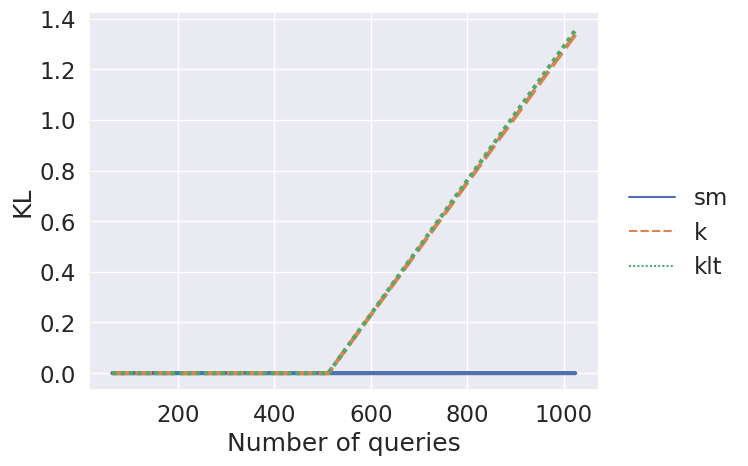
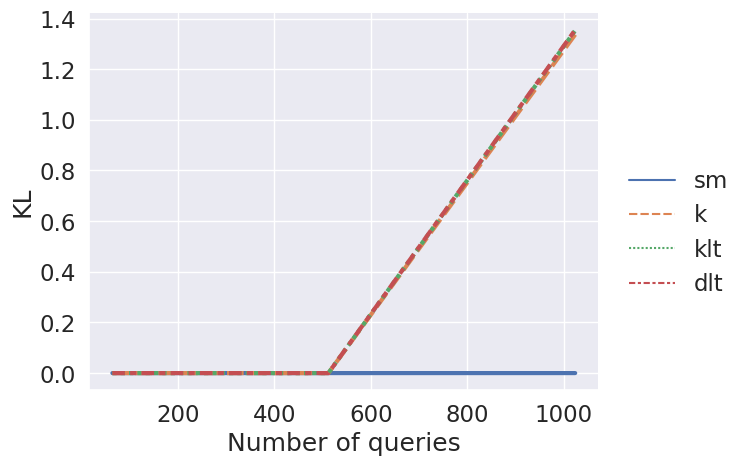
nmf

diff --git a/cat_tests/test_hyps.py b/cat_tests/test_hyps.py
@@ -35,12 +35,14 @@ class Cat(nn.Module):
         random_feature=False,
         learn_temp=False,
         diff_temps=False,
+        nmf = False, # direct NMF
     ):
         torch.manual_seed(0)
         super(Cat, self).__init__()
         self.sm = sm
         self.l2norm = l2norm
         self.random_feature = random_feature
+        self.nmf = nmf
 
 
         self.start_emb = nn.Parameter(
@@ -100,8 +102,12 @@ class Cat(nn.Module):
                 fy = fy / self.class_temp
             else:
                 proj = proj / self.temp
-            L = fx @ proj
-            R = fy @ proj
+            if not self.nmf:
+                L = fx @ proj
+                R = fy @ proj
+            else:
+                L = fx
+                R = fy
             #L = fx @ proj - fx.square().sum(-1, keepdim=True) / 2
             #R = fy @ proj - fy.square().sum(-1, keepdim=True) / 2
             return (L[:,None,:] + R[None,:,:]).logsumexp(-1)
@@ -178,13 +184,15 @@ def print_stats(model):
         print(f"num sv > 1: {num_sv} || H: {H(lp).mean().item():.2f} || min/max logit: {logits.min().item():.2f}/{logits.max().item():.2f} || proj: {minproj}/{maxproj} || emb: {minemb}/{maxemb} || st {model.start_temp.min().item():.2f}/{model.start_temp.max().item():.2f} || ct {model.class_temp.min().item():.2f}/{model.class_temp.max().item():.2f}")
     return s
 
-def plot(losses, svs, prefix, name, num_starts, num_classes, num_features=0, learn_temp=False, diff_temps=False):
+def plot(losses, svs, prefix, name, num_starts, num_classes, num_features=0, learn_temp=False, diff_temps=False, nmf=False):
     fig, ax = plt.subplots()
     g = sns.lineplot(x=np.arange(len(losses)), y=losses, ax=ax)
     if learn_temp and diff_temps:
         temp_string = "dt"
     elif learn_temp and not diff_temps:
         temp_string = "lt"
+    elif nmf:
+        temp_string = "nmf"
     else:
         temp_string = "nol"
     fig.savefig(f"cat_tests/plots/{prefix}-{name}-{num_starts}-{num_classes}-{temp_string}.png")
@@ -200,11 +208,13 @@ def plot(losses, svs, prefix, name, num_starts, num_classes, num_features=0, lea
             f"cat_tests/plots/svs-{prefix}-{name}-{num_starts}-{num_classes}-{temp_string}.png")
     plt.close(fig)
 
-def plot_svs(svs_list, prefix, name, num_starts, num_classes, num_features=0, learn_temp=False, diff_temps=False):
+def plot_svs(svs_list, prefix, name, num_starts, num_classes, num_features=0, learn_temp=False, diff_temps=False, nmf=False):
     if learn_temp and diff_temps:
         temp_string = "dt"
     elif learn_temp and not diff_temps:
         temp_string = "lt"
+    elif nmf:
+        temp_string = "nmf"
     else:
         temp_string = "nol"
 
@@ -227,6 +237,7 @@ def run_fit(
     feature_dim = None,
     emb_dim = 128,
     random_feature=False,
+    nmf = False,
     learn_temp=False,
     diff_temps = False,
     plot_losses = False,
@@ -263,6 +274,7 @@ def run_fit(
         num_classes, emb_dim, feature_dim,
         random_feature = random_feature,
         learn_temp = learn_temp,
+        nmf = nmf,
         diff_temps = diff_temps,
     )
     model.to(device)
@@ -272,9 +284,9 @@ def run_fit(
     k_loss = losses[-1]
 
     if plot_losses:
-        plot(losses, svs, prefix, "k", num_starts, num_classes, feature_dim, learn_temp, diff_temps)
+        plot(losses, svs, prefix, "k", num_starts, num_classes, feature_dim, learn_temp, diff_temps, nmf=nmf)
     if check_svs != 0:
-        plot_svs([svs_train[-1]], prefix, "k", num_starts, num_classes, feature_dim, learn_temp, diff_temps)
+        plot_svs([svs_train[-1]], prefix, "k", num_starts, num_classes, feature_dim, learn_temp, diff_temps, nmf=nmf)
 
     return sm_loss, k_loss
 
@@ -309,6 +321,17 @@ if PLOT:
         emb_dim = 128,
         plot_losses = True,
         check_svs = 4,
+        prefix="smallsq",
+    )
+    print("Low Rank")
+    sm, k = run_fit(
+        true_dist_sm,
+        num_classes = 128,
+        feature_dim = 64,
+        emb_dim = 64,
+        plot_losses = True,
+        check_svs = 4,
+        nmf = True,
         prefix="smallsq",
     )
     print("Learn temp")
